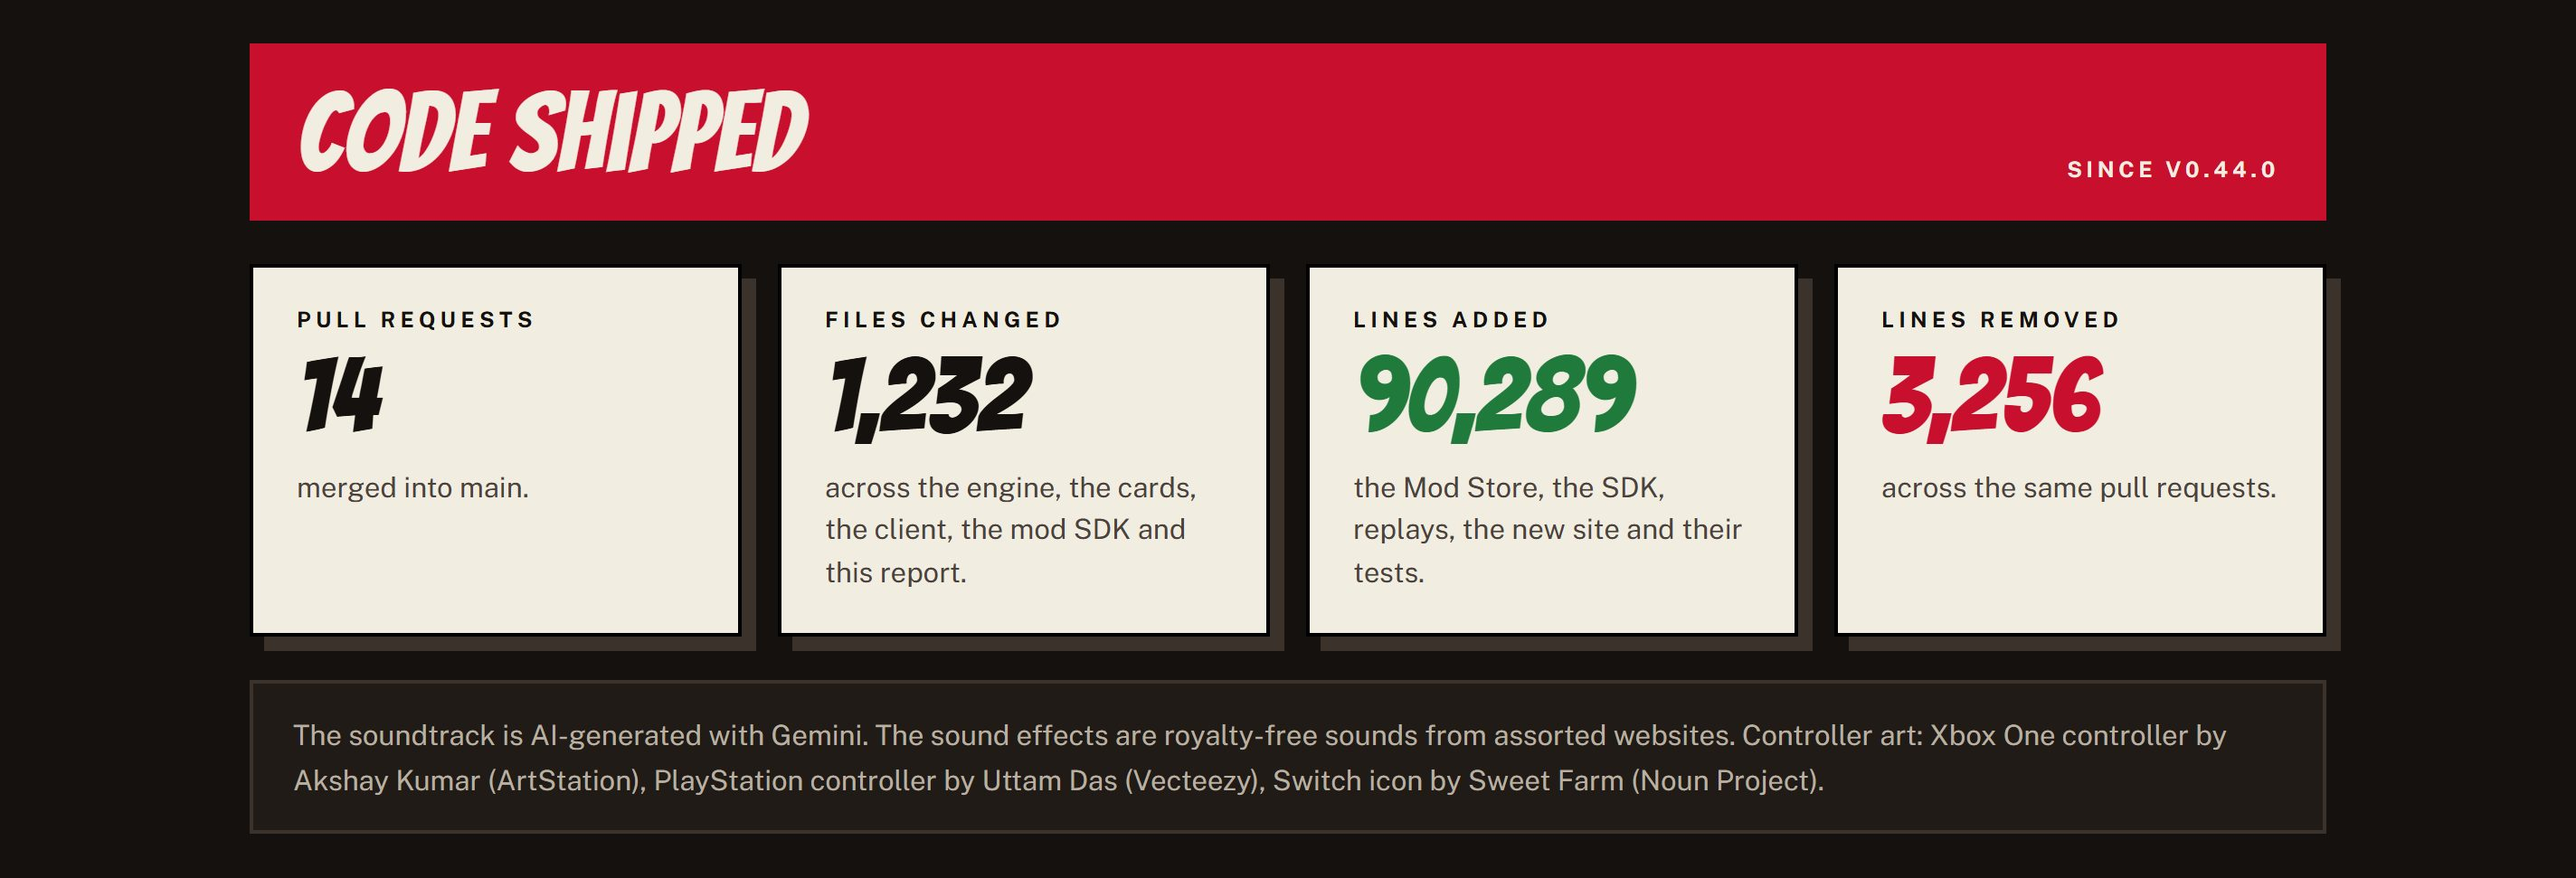
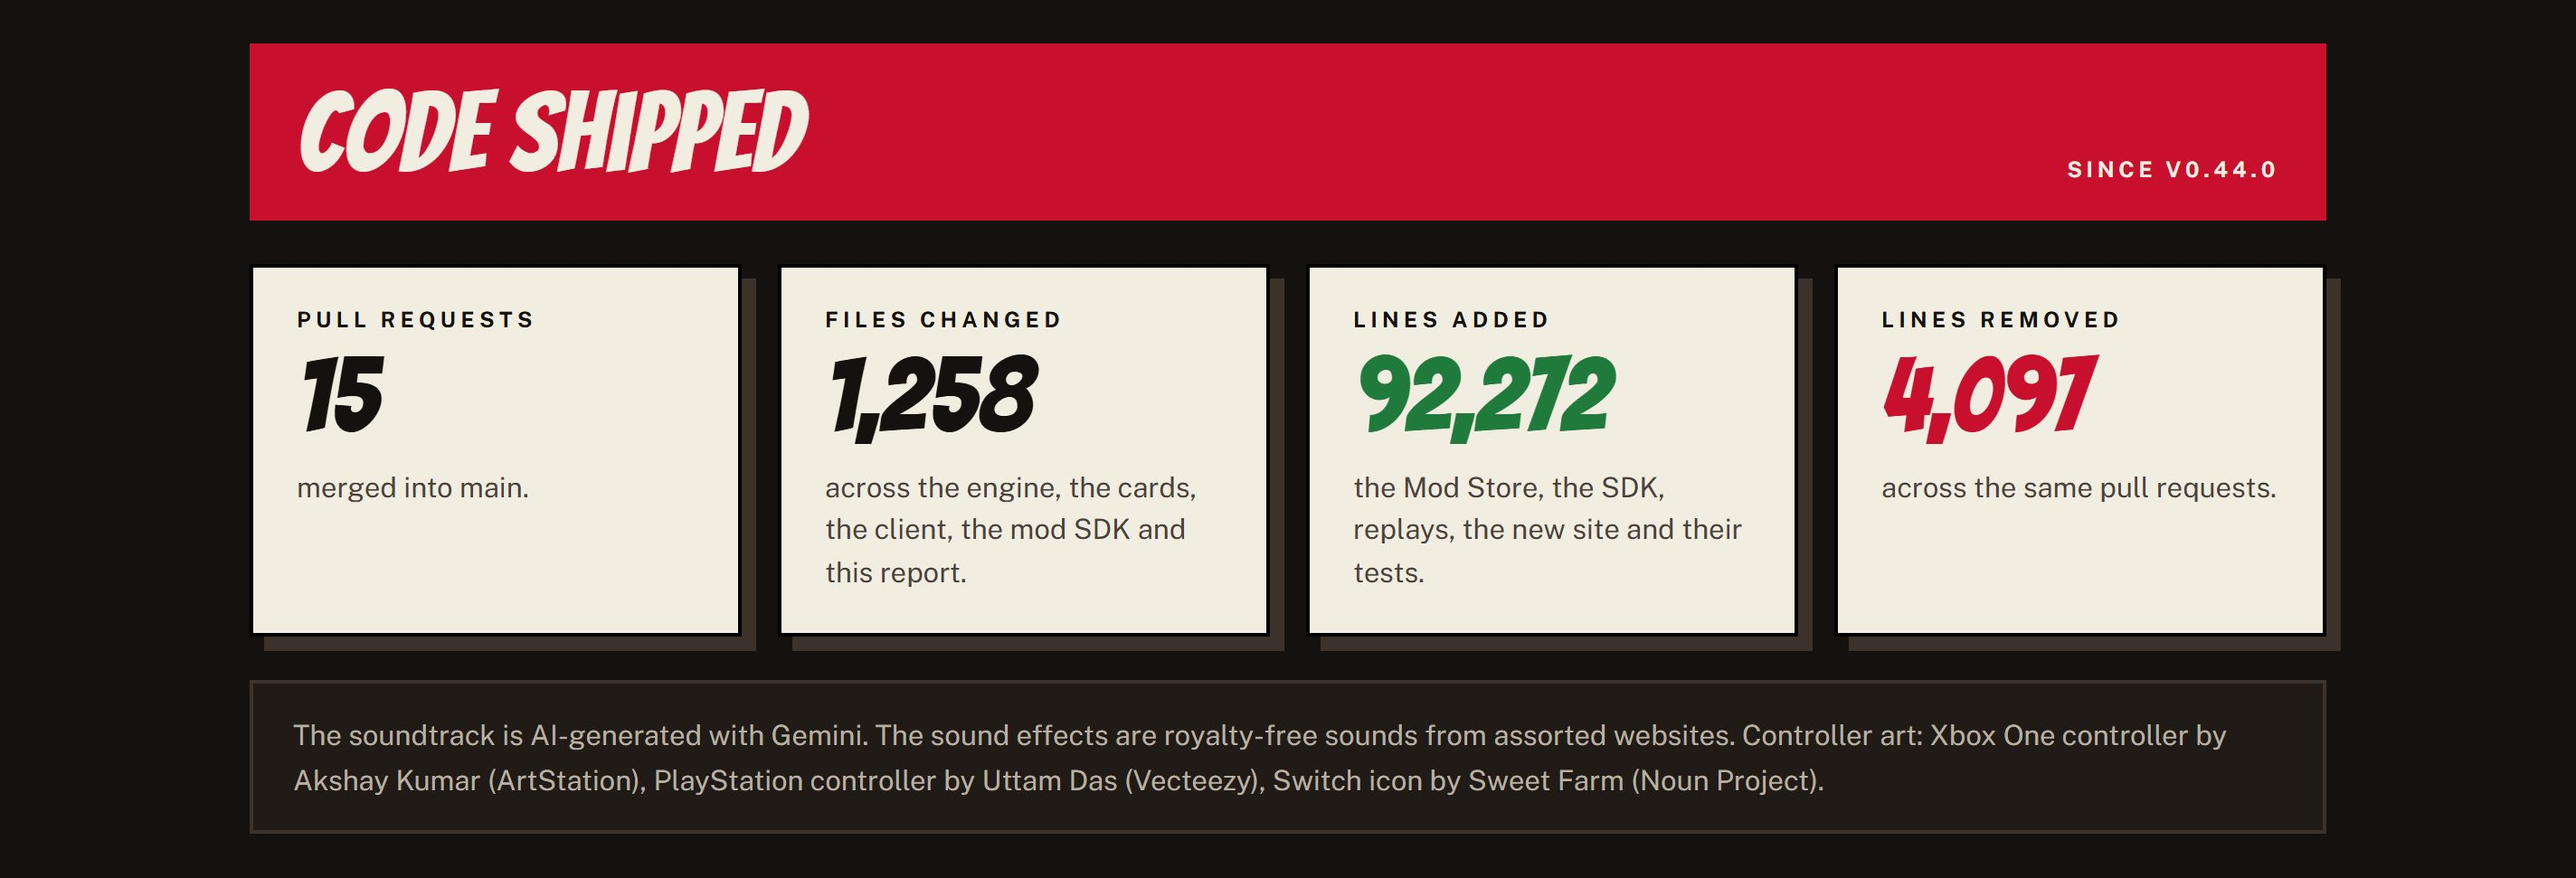
Add the smooth screen changes to the v0.45.0 announcement

diff --git a/packages/client/public/releases/v0.45.0/index.html b/packages/client/public/releases/v0.45.0/index.html
@@ -880,7 +880,7 @@
       <!-- ============ ALSO ============ -->
       <div class="band">
         <h2>Also in v0.45.0</h2>
-        <div class="lab">Rules, art and what's next</div>
+        <div class="lab">Rules, art, polish and what's next</div>
       </div>
       <div class="cols">
         <div class="box">
@@ -915,6 +915,20 @@
             <li>The FFG rulings transcript now runs to October 12, 2026.</li>
           </ul>
         </div>
+      </div>
+      <div class="box" style="margin-top: 24px">
+        <h3>Smoother, and up to date</h3>
+        <ul class="ck">
+          <li>
+            <b>Moving between screens is smooth (#712).</b> Title, Extras and the Mod Store fade in already fully drawn,
+            instead of filling in and blinking, and the Extras tabs switch without a hitch.
+          </li>
+          <li>Every dependency is on its latest compatible version.</li>
+          <li>
+            The project's current status and architecture pages are up to date, including how the content, mod template
+            and Mod Store registry repositories feed the game.
+          </li>
+        </ul>
       </div>
 
       <!-- ============ THANKS ============ -->
@@ -961,22 +975,22 @@
       <section class="stats" aria-label="Code shipped since v0.44.0">
         <div class="tile">
           <h4>Pull requests</h4>
-          <div class="n">14</div>
+          <div class="n">15</div>
           <p>merged into main.</p>
         </div>
         <div class="tile">
           <h4>Files changed</h4>
-          <div class="n">1,232</div>
+          <div class="n">1,258</div>
           <p>across the engine, the cards, the client, the mod SDK and this report.</p>
         </div>
         <div class="tile">
           <h4>Lines added</h4>
-          <div class="n c-green">90,289</div>
+          <div class="n c-green">92,272</div>
           <p>the Mod Store, the SDK, replays, the new site and their tests.</p>
         </div>
         <div class="tile">
           <h4>Lines removed</h4>
-          <div class="n c-red">3,256</div>
+          <div class="n c-red">4,097</div>
           <p>across the same pull requests.</p>
         </div>
       </section>

diff --git a/docs/screenshots/releases/v0.45.0/discord-post.md b/docs/screenshots/releases/v0.45.0/discord-post.md
@@ -2,12 +2,13 @@
 
 Community heroes and scenarios now install from inside the game.
 
-🛒 **Mod Store (Beta)**: open Extras ▸ Mod Store (Beta) to browse fan-made packs, see their cards, and install, update or remove them. Eight packs to start: Carnage, Gwenpool, Night Thrasher and Yondu, the Mephisto and The Punisher scenarios, and the Lost Traits and GMW Fixes house rules. It's a beta, so if something looks off, Report a problem is right there in the store.
+🛒 **Mod Store (Beta)**: open Extras ▸ Mod Store (Beta) to browse fan-made packs, see their cards, and install, update or remove them. Eight packs to start: Carnage, Gwenpool, Night Thrasher and Yondu, the Mephisto and The Punisher scenarios, and the Lost Traits and GMW Fixes house rules. It's a beta: Report a problem is right there in the store.
 🏆 **Mod achievements**: 15 new ones in the Trophy Room. They give no points, so mods never move your rank.
-🎬 **Replays**: watch any game back on the board. Play, pause, step, skip and seek at 1×, 2× or 4×, then export the replay or the log, or share a link. Find it on Game over, beside Resume on the title screen, and in Extras ▸ Open a replay.
-🗂 **Past games**: a new list beside Extras on the title screen keeps every game you've finished, won or lost and why. Pick one to watch it, share it, export it or read its log.
+🎬 **Replays**: watch any game back on the board. Play, pause, step and seek at 1×, 2× or 4×, then export the replay or the log, or share a link. Find it on Game over and in Extras ▸ Open a replay.
+🗂 **Past games**: a new list beside Extras on the title screen keeps every game you've finished, won or lost and why. Pick one to watch, share or export it.
 🏠 **A home of its own**: the game has its own website, https://champions-digital-game.com, with news, every hero and villain, the mods and downloads. The game itself moves to its own address soon, and I'll post here when it does.
 🛠 **Fixes**: the Briefing no longer goes blank on some Android phones, and Stealth Training answers Secure the Landing Pad's defeat.
+✨ **Smoother screens**: Title, Extras and the Mod Store fade in fully drawn, and Extras tabs switch without a hitch.
 🥋 Elektra and Iron Fist are on the way.
 
 Full report: https://champions-digital-game.com/releases/v0.45.0/
@@ -21,12 +22,13 @@ Thank you to bluefireF5ran for curating every pack, to Neptune, DesignHacker, Bl
 
 Los héroes y escenarios de la comunidad ahora se instalan desde el propio juego.
 
-🛒 **Mod Store (Beta)**: abre Extras ▸ Mod Store (Beta) para ver packs hechos por fans, mirar sus cartas, e instalarlos, actualizarlos o quitarlos. Para empezar hay ocho: Carnage, Gwenpool, Night Thrasher y Yondu, los escenarios Mephisto y The Punisher, y las reglas de la casa Lost Traits y GMW Fixes. Es una beta: si algo se ve raro, Report a problem está en la misma tienda.
+🛒 **Mod Store (Beta)**: abre Extras ▸ Mod Store (Beta) para ver packs hechos por fans, mirar sus cartas, e instalarlos, actualizarlos o quitarlos. Para empezar hay ocho: Carnage, Gwenpool, Night Thrasher y Yondu, los escenarios Mephisto y The Punisher, y las reglas de la casa Lost Traits y GMW Fixes. Es una beta: Report a problem está en la misma tienda.
 🏆 **Logros de mods**: 15 nuevos en la Trophy Room. No dan puntos, así que los mods nunca cambian tu rango.
-🎬 **Repeticiones**: vuelve a ver cualquier partida en el tablero. Reproduce, pausa, avanza paso a paso, salta y busca a 1×, 2× o 4×, y luego exporta la repetición o el registro, o comparte un enlace. Está en Game over, junto a Resume en la pantalla de inicio y en Extras ▸ Open a replay.
-🗂 **Past games**: una lista nueva junto a Extras en la pantalla de inicio guarda cada partida que terminaste, si ganaste o perdiste y por qué. Elige una para verla, compartirla, exportarla o leer su registro.
+🎬 **Repeticiones**: vuelve a ver cualquier partida en el tablero. Reproduce, pausa, avanza paso a paso y busca a 1×, 2× o 4×, y luego exporta la repetición o el registro, o comparte un enlace. Está en Game over y en Extras ▸ Open a replay.
+🗂 **Past games**: una lista nueva junto a Extras en la pantalla de inicio guarda cada partida que terminaste, si ganaste o perdiste y por qué. Elige una para verla, compartirla o exportarla.
 🏠 **Una casa propia**: el juego ya tiene su propio sitio web, https://champions-digital-game.com, con noticias, cada héroe y villano, los mods y las descargas. El juego en sí se muda pronto a su propia dirección, y lo anunciaré aquí cuando lo haga.
 🛠 **Correcciones**: el Briefing ya no se queda en blanco en algunos teléfonos Android, y Stealth Training responde a la derrota de Secure the Landing Pad.
+✨ **Pantallas más fluidas**: Title, Extras y la Mod Store aparecen ya dibujadas, y las pestañas de Extras cambian sin tirones.
 🥋 Elektra e Iron Fist están en camino.
 
 Informe completo: https://champions-digital-game.com/releases/v0.45.0/index.es.html

diff --git a/docs/releases/es/v0.45.0.md b/docs/releases/es/v0.45.0.md
@@ -1,6 +1,6 @@
 ## La Mod Store abre sus puertas
 
-Los héroes y escenarios de la comunidad ahora se instalan desde el propio juego: la Mod Store abre en Extras con ocho packs hechos por fans de Neptune, DesignHacker, BlueHG, Patatasaurio, PermaKarma, Gideon's Gaming y Bluefire, seleccionados y revisados por @bluefireF5ran y pedidos primero por @Kravenprime (#661, #677). Ahora puedes volver a ver cualquier partida como una repetición, exportarla o compartirla, y Past games muestra cada partida terminada para volver a verla (#693, #706), y el juego ya tiene su propio sitio web, [champions-digital-game.com](https://champions-digital-game.com/) (#697). @AlecHolland1582 reportó las dos correcciones, el Briefing en blanco en Android (#692) y Stealth Training (#700). Elektra e Iron Fist están en camino. ¡Gracias!
+Los héroes y escenarios de la comunidad ahora se instalan desde el propio juego: la Mod Store abre en Extras con ocho packs hechos por fans de Neptune, DesignHacker, BlueHG, Patatasaurio, PermaKarma, Gideon's Gaming y Bluefire, seleccionados y revisados por @bluefireF5ran y pedidos primero por @Kravenprime (#661, #677). Ahora puedes volver a ver cualquier partida como una repetición, exportarla o compartirla, y Past games muestra cada partida terminada para volver a verla (#693, #706), y el juego ya tiene su propio sitio web, [champions-digital-game.com](https://champions-digital-game.com/) (#697). @AlecHolland1582 reportó las dos correcciones, el Briefing en blanco en Android (#692) y Stealth Training (#700). Además, pasar entre Title, Extras y la Mod Store ahora es fluido (#712). Elektra e Iron Fist están en camino. ¡Gracias!
 
 ![Los números: 8 mods en la tienda, 7 creadores y 66 packs integrados](https://raw.githubusercontent.com/quincarter/marvel-champions-digital-game/4e8110cd8981226a0703c22ef0524ee2514ae1fd/docs/screenshots/releases/v0.45.0/v0-45-0-release-01-the-numbers.jpg)
 
@@ -45,6 +45,7 @@ Los héroes y escenarios de la comunidad ahora se instalan desde el propio juego
 - La página de inicio retiene las noticias y las capturas del informe de una versión hasta que GitHub la publica, y se vuelve a desplegar cuando se publica una versión para que sus descargas y noticias estén al día
 - La barra de la página de inicio nombra el juego completo, Marvel Champions, con Digital Edition al lado, y sus enlaces de sección y los nombres de los idiomas dejan espacio en pantallas más pequeñas
 - El juego web se muda a https://marvel.champions-digital-game.com en Cloudflare: los enlaces a la versión web, a la guía de sincronización y de Discord de las apps apuntan ahí, y los informes de versión se abren en la página de inicio
+- Dependencias actualizadas a sus últimas versiones compatibles
 
 ### Fixed
 
@@ -55,6 +56,8 @@ Los héroes y escenarios de la comunidad ahora se instalan desde el propio juego
 - Los recuadros de los packs y las imágenes de las cartas de la Mod Store, y los recuadros de Extras, muestran el cursor de mano al pasar por encima
 - El Briefing ya no se queda en blanco en algunos teléfonos Android cuando hace una pregunta con un personaje hablando encima, como la decisión de Kree Supremacy de Ronan después del Market (#692)
 - Stealth Training ahora responde cuando derrotas exactamente Secure the Landing Pad, y el registro nombra el plan secundario en lugar de a Cosmo para la amenaza quitada y la derrota (#700)
+- Pasar entre Title, Extras y la Mod Store es fluido: cada pantalla aparece con un fundido cuando ya está dibujada del todo, en vez de irse rellenando y parpadear a medida que llegan sus textos, partidas guardadas e imágenes, y las pestañas de Extras cambian sin tirones
+- La línea de objetivo de un esbirro ya no repite sus puntos de vida cuando la vista previa del ataque ya los muestra
 
 ### Engine
 
@@ -98,3 +101,5 @@ Los héroes y escenarios de la comunidad ahora se instalan desde el propio juego
 - La transcripción de resoluciones posteriores a la 1.7 ahora llega hasta el 12 de octubre de 2026
 - Se quitaron de docs/pr-screenshots las capturas de PR que quedaban de la Mod Store.
 - El informe y el anuncio de la versión v0.45.0 incluyen Past games junto a las repeticiones
+- La página de estado actual está al día: lo que se puede jugar ahora y lo que trae v0.45.0
+- La página de arquitectura muestra los repositorios de contenido, de la plantilla de mods y del registro de la Mod Store, y cómo su contenido llega al juego

diff --git a/docs/screenshots/releases/v0.45.0/github-release-body.md b/docs/screenshots/releases/v0.45.0/github-release-body.md
@@ -1,6 +1,6 @@
 ## The Mod Store Is Open
 
-Community heroes and scenarios now install from inside the game: the Mod Store opens in Extras with eight fan-made packs by Neptune, DesignHacker, BlueHG, Patatasaurio, PermaKarma, Gideon's Gaming and Bluefire, curated by @bluefireF5ran and first asked for by @Kravenprime (#661, #677). Every game can now be watched back as a replay, exported or shared, and Past games lists every finished game to watch again (#693, #706), and the game has a website of its own, [champions-digital-game.com](https://champions-digital-game.com/) (#697). @AlecHolland1582 reported both fixes, the blank Briefing on Android (#692) and Stealth Training (#700). Elektra and Iron Fist are on the way. Thank you!
+Community heroes and scenarios now install from inside the game: the Mod Store opens in Extras with eight fan-made packs by Neptune, DesignHacker, BlueHG, Patatasaurio, PermaKarma, Gideon's Gaming and Bluefire, curated by @bluefireF5ran and first asked for by @Kravenprime (#661, #677). Every game can now be watched back as a replay, exported or shared, and Past games lists every finished game to watch again (#693, #706), and the game has a website of its own, [champions-digital-game.com](https://champions-digital-game.com/) (#697). @AlecHolland1582 reported both fixes, the blank Briefing on Android (#692) and Stealth Training (#700). Moving between Title, Extras and the Mod Store is smooth now (#712). Elektra and Iron Fist are on the way. Thank you!
 
 **[Read the full v0.45.0 report on the site ↗](https://champions-digital-game.com/releases/v0.45.0/)**: the Mod Store and its eight packs, replays and Past games, the new website, the fixes from your reports and the thank-you wall.
 
@@ -51,6 +51,7 @@ Community heroes and scenarios now install from inside the game: the Mod Store o
 - The landing page holds back a release's news and report screenshots until GitHub publishes it, and redeploys when a release is published so its downloads and news are current
 - The landing page's bar names the game in full, Marvel Champions, with Digital Edition beside it, and its section links and language names make room on smaller screens
 - The web game moves to https://marvel.champions-digital-game.com on Cloudflare: the apps' web-version, sync guide and Discord links point there, and the release reports open on the landing site
+- Dependencies updated to their latest compatible versions
 
 ### Fixed
 
@@ -61,6 +62,8 @@ Community heroes and scenarios now install from inside the game: the Mod Store o
 - The Mod Store's pack tiles and card pictures, and the Extras tiles, show the hand cursor on hover
 - The Briefing no longer goes blank on some Android phones when it asks a question with a speaker above it, such as Ronan's Kree Supremacy call after the Market (#692)
 - Stealth Training now responds when you exactly defeat Secure the Landing Pad, and the log names the side scheme instead of Cosmo for the threat removed and the defeat (#700)
+- Moving between Title, Extras and the Mod Store is smooth: each screen fades in once it is fully drawn instead of filling in and blinking as its text, saves and pictures arrive, and the Extras tabs switch without a hitch
+- A minion's target line no longer repeats its hit points when the attack preview already shows them
 
 ### Engine
 
@@ -104,6 +107,8 @@ Community heroes and scenarios now install from inside the game: the Mod Store o
 - The post-1.7 rulings transcript now runs to October 12, 2026
 - Removed the mod store's leftover PR screenshots from docs/pr-screenshots.
 - The v0.45.0 release report and announcement cover Past games next to replays
+- The current status page is up to date: what's playable now, and what v0.45.0 brings
+- The architecture page shows the content, mod template and Mod Store registry repositories and how their content reaches the game
 
 ### Special thanks
 

diff --git a/docs/screenshots/releases/v0.45.0/release-notes-header.md b/docs/screenshots/releases/v0.45.0/release-notes-header.md
@@ -1,6 +1,6 @@
 ## The Mod Store Is Open
 
-Community heroes and scenarios now install from inside the game: the Mod Store opens in Extras with eight fan-made packs by Neptune, DesignHacker, BlueHG, Patatasaurio, PermaKarma, Gideon's Gaming and Bluefire, curated by @bluefireF5ran and first asked for by @Kravenprime (#661, #677). Every game can now be watched back as a replay, exported or shared, and Past games lists every finished game to watch again (#693, #706), and the game has a website of its own, [champions-digital-game.com](https://champions-digital-game.com/) (#697). @AlecHolland1582 reported both fixes, the blank Briefing on Android (#692) and Stealth Training (#700). Elektra and Iron Fist are on the way. Thank you!
+Community heroes and scenarios now install from inside the game: the Mod Store opens in Extras with eight fan-made packs by Neptune, DesignHacker, BlueHG, Patatasaurio, PermaKarma, Gideon's Gaming and Bluefire, curated by @bluefireF5ran and first asked for by @Kravenprime (#661, #677). Every game can now be watched back as a replay, exported or shared, and Past games lists every finished game to watch again (#693, #706), and the game has a website of its own, [champions-digital-game.com](https://champions-digital-game.com/) (#697). @AlecHolland1582 reported both fixes, the blank Briefing on Android (#692) and Stealth Training (#700). Moving between Title, Extras and the Mod Store is smooth now (#712). Elektra and Iron Fist are on the way. Thank you!
 
 **[Read the full v0.45.0 report on the site ↗](https://champions-digital-game.com/releases/v0.45.0/)**: the Mod Store and its eight packs, replays and Past games, the new website, the fixes from your reports and the thank-you wall.
 
